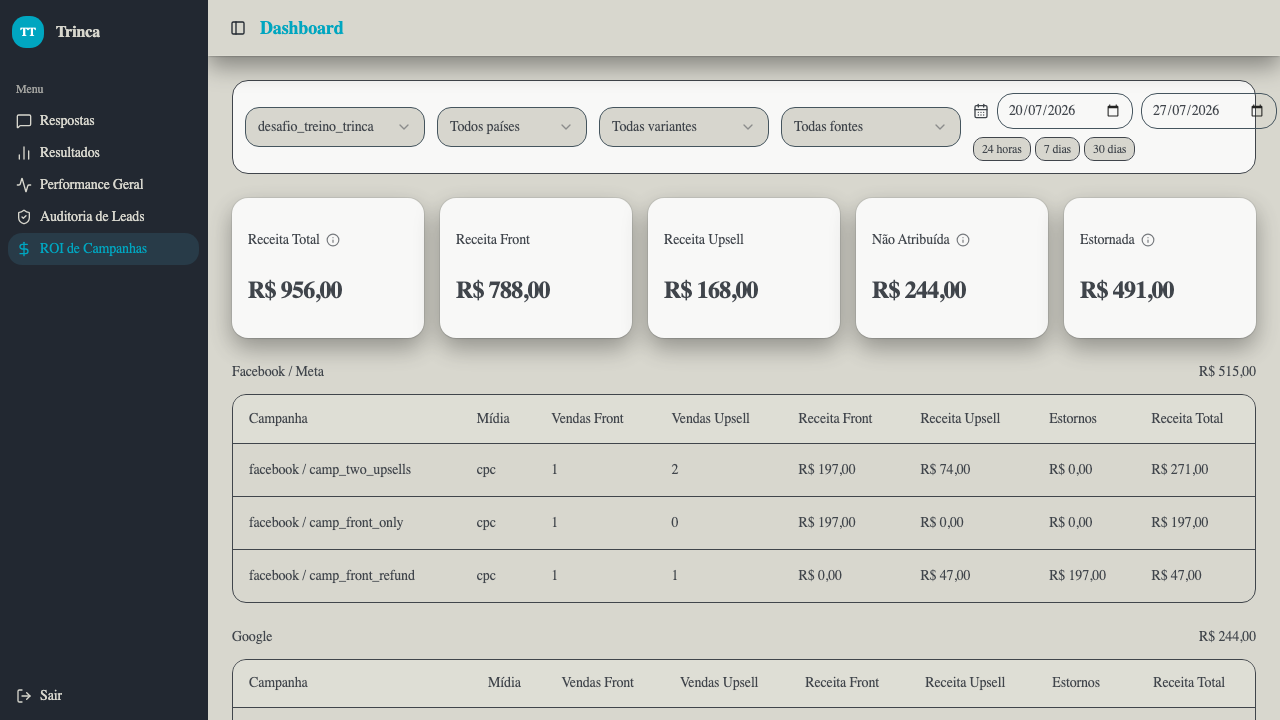
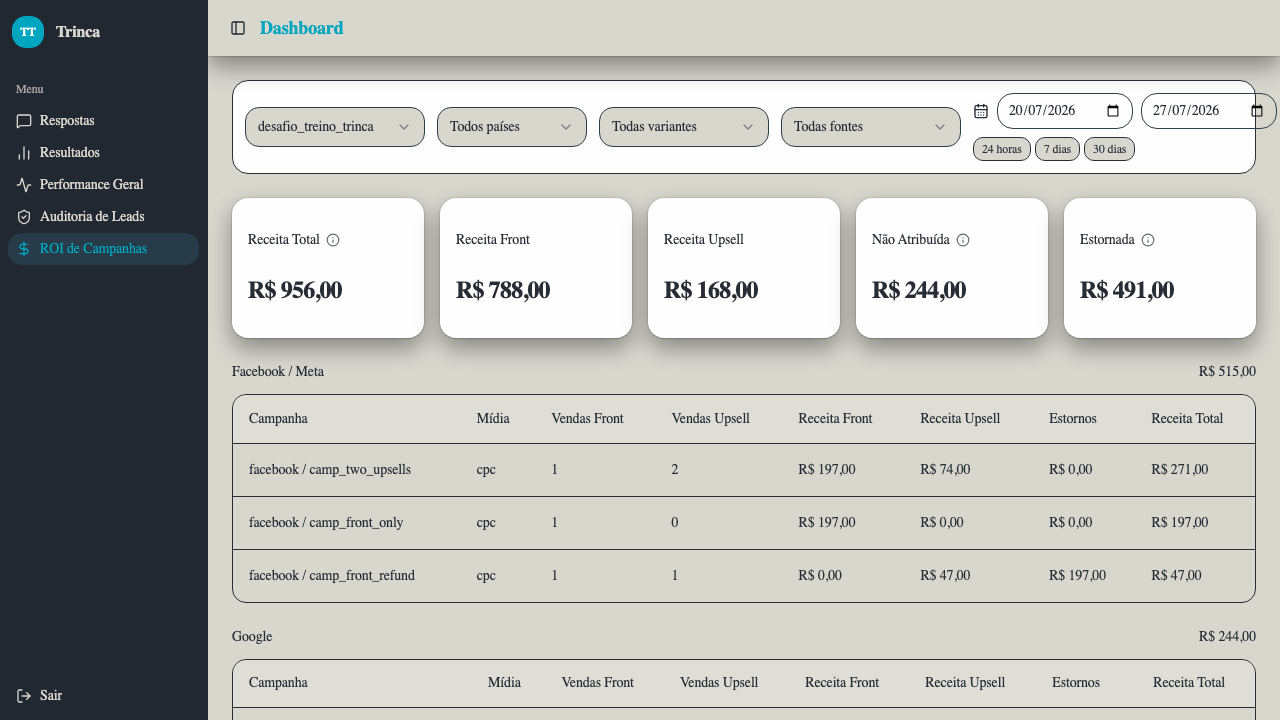
fix: reset date range to today when deactivating the 24h toggle
Turning off "24 horas" left dateFrom/dateTo at whatever 2-day span the
toggle had computed (e.g. yesterday+today, needed to cover a real rolling
24h window), instead of resetting to a single day. In practice this made
"hoje" and "24 horas" show identical results after toggling off, since the
underlying filter never actually changed back to a single day — reported
by the user after comparing TikTok "hoje" vs "24 horas" results.

Verified against production data that rpc_campaign_roi already returns
different, correct results for a single day vs the 2-day window (15 vs 23
tiktok front orders) — the bug was purely in the frontend toggle-off state,
not the backend filter.

diff --git a/tests/date-range-24h-toggle.spec.ts b/tests/date-range-24h-toggle.spec.ts
@@ -93,6 +93,32 @@ test("clicar novamente em 24 horas desliga o toggle e reabilita o calendário", 
   await expect(page.getByLabel("Data inicial")).toBeEnabled()
 })
 
+test("desativar 24 horas volta pro dia de hoje (BRT), não deixa o range de 2 dias do 24h parado ali", async ({ page }) => {
+  // Bug relatado: "24 horas" e "hoje" mostravam o mesmo resultado -- porque desativar o
+  // toggle mantinha o dateFrom/dateTo que "24 horas" tinha calculado (ontem + hoje, 2 dias
+  // de calendário), em vez de resetar pra um único dia. Fixa o relógio pra o teste não
+  // depender da hora real em que ele roda.
+  await page.clock.install({ time: new Date("2026-07-27T20:00:00Z") }) // 17:00 BRT
+
+  await mockAuthAndRpcs(page)
+  await page.goto("/roi-campanhas")
+
+  const toggleButton = page.getByRole("button", { name: "24 horas" })
+  const dateFromInput = page.getByLabel("Data inicial")
+  const dateToInput = page.getByLabel("Data final")
+
+  await toggleButton.click()
+  await expect(dateFromInput).toHaveValue("Últimas 24h")
+
+  await toggleButton.click()
+  await expect(toggleButton).toHaveAttribute("aria-pressed", "false")
+
+  // Antes do fix, aqui dateFrom ficava "2026-07-26" (o "ontem" que 24h calculou) em vez de
+  // "2026-07-27" (hoje) -- fazendo o filtro continuar cobrindo 2 dias por engano.
+  await expect(dateFromInput).toHaveValue("2026-07-27")
+  await expect(dateToInput).toHaveValue("2026-07-27")
+})
+
 test("estado do toggle 24h é compartilhado entre páginas (mesmo DashboardFiltersProvider)", async ({ page }) => {
   await mockAuthAndRpcs(page)
   await page.goto("/roi-campanhas")

diff --git a/src/components/composites/date-range-calendar.tsx b/src/components/composites/date-range-calendar.tsx
@@ -1,7 +1,7 @@
 import { CalendarDays } from "lucide-react"
 import { Button } from "@/components/atoms/button"
 import { Input } from "@/components/atoms/input"
-import { lastDaysRange } from "@/lib/format"
+import { lastDaysRange, toIsoDate } from "@/lib/format"
 import { cn } from "@/lib/utils"
 
 interface DateRangeCalendarProps {
@@ -29,7 +29,12 @@ export function DateRangeCalendar({
 }: DateRangeCalendarProps) {
   function toggleLast24h() {
     if (is24hActive) {
-      onChange({ dateFrom, dateTo, is24hActive: false })
+      // "24 horas" cobre 2 dias-calendário (ex.: 26/07 e 27/07, pra fechar uma janela de
+      // 24h de verdade). Ao desativar, não faz sentido manter esse range de 2 dias como se
+      // fosse "hoje" -- isso fazia o usuário achar que "hoje" e "24 horas" davam o mesmo
+      // resultado. Desativar reseta para o dia de hoje (Brasília) apenas.
+      const today = toIsoDate(new Date())
+      onChange({ dateFrom: today, dateTo: today, is24hActive: false })
       return
     }
     onChange({ ...lastDaysRange(1), is24hActive: true })
